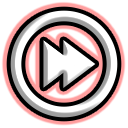
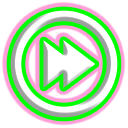
this is getting aggravating.

diff --git a/iconsassemble.py b/iconsassemble.py
@@ -3,7 +3,7 @@ from PIL import Image
 button = "pause"
 template = "clearCircles"
 background = "back"
-stroke = "#00aa00"
+stroke = "#000000"
 fade = "#000080"
 
 
@@ -35,29 +35,44 @@ def replaceColors(icon, stroke, fade):
     frgb = list((cvHex(fade[1:3]), cvHex(fade[3:5]), cvHex(fade[5:7])))
     print srgb
     pix = icon.load()
+
+    def replaceFade(frgb, pix):
+        rgbt = list(frgb)
+        if pix[x, y][3] < 200:
+            pass
+            # rgbt[0] = rgbt[0] - (255 - pix[x, y][0])
+            # rgbt[1] = rgbt[1] - (255 - pix[x, y][1])
+            # rgbt[2] = rgbt[2] - (255 - pix[x, y][2])
+        rgbt.append(pix[x, y][3])
+        rgbt = tuple(rgbt)
+        pix[x, y] = rgbt
+        return pix
+
+    def replaceStroke(srgb, pix):
+        rgbt = list(srgb)
+        # rgbt[0] = rgbt[0] - (255 - pix[x, y][0])
+        rgbt[1] -= 255 - pix[x, y][1]
+        # rgbt[2] = rgbt[2] - (255 - pix[x, y][2])
+        rgbt.append(pix[x, y][3])
+        rgbt = tuple(rgbt)
+        pix[x, y] = rgbt
+        return pix
+
     for y in xrange(icon.size[1]):
         for x in xrange(icon.size[0]):
-            if (pix[x, y][0] - pix[x,y][1]) < 10:
-                if pix[x, y][3] > 200:
-                    rgbt = list(srgb)
-                    if pix[x,y] > (32,32,32):
-                        rgbt[0] = rgbt[0] - (255 - pix[x, y][0])
-                        rgbt[1] = rgbt[1] - (255 - pix[x, y][1])
-                        rgbt[2] = rgbt[2] - (255 - pix[x, y][2])
-                    rgbt.append(pix[x, y][3])
-                    rgbt = tuple(rgbt)
-                    pix[x, y] = rgbt
-            elif pix[x, y][0] > (100) and pix[x, y][1:3] < (64, 64):
-                if pix[x, y][3] < 200:
-                    rgbt = list(frgb)
-                    rgbt[0] = rgbt[0] - (255 - pix[x, y][0])
-                    #rgbt[1] = rgbt[1] - (255 - pix[x, y][1])
-                    #rgbt[2] = rgbt[2] - (255 - pix[x, y][2])
-                    rgbt.append(pix[x, y][3])
-                    rgbt = tuple(rgbt)
-                    pix[x, y] = rgbt
-            else:
-                print pix[x, y]
+            if pix[x, y][0:3] in ((0,0,0),(255,255,255)):
+                continue
+            if (pix[x, y][0] - pix[x,y][2]) < 150:
+                if pix[x, y][1] < 255:
+                    pix = replaceFade(frgb,pix)
+            if pix[x, y][0] == pix[x, y][2]: #and pix[x, y][1] is not 255:
+                pix = replaceStroke(srgb,pix)
+                continue
+            # if pix[x, y][1] == 255:
+            #     pix = replaceStroke(srgb,pix)
+
+
+
     return icon
 
 
